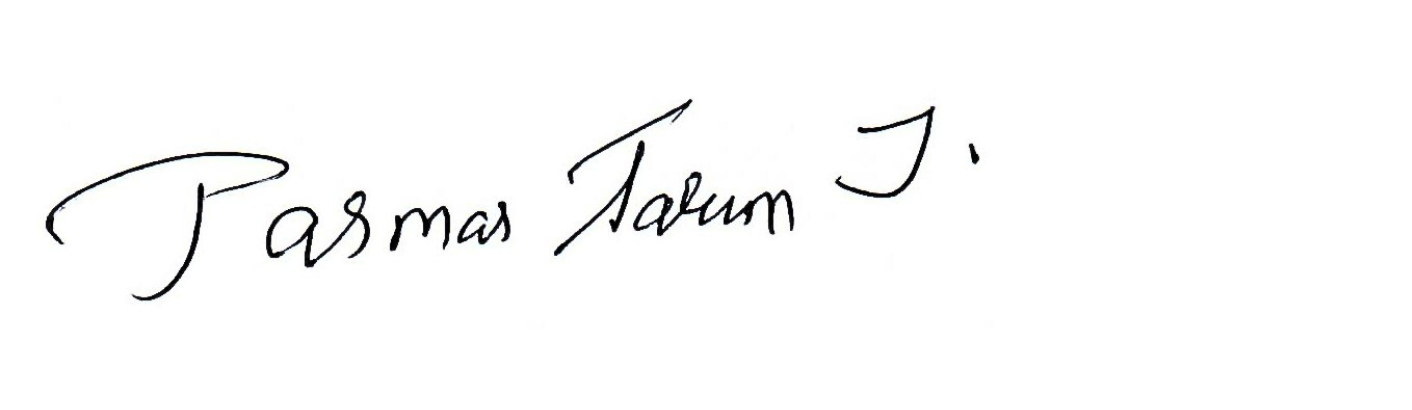
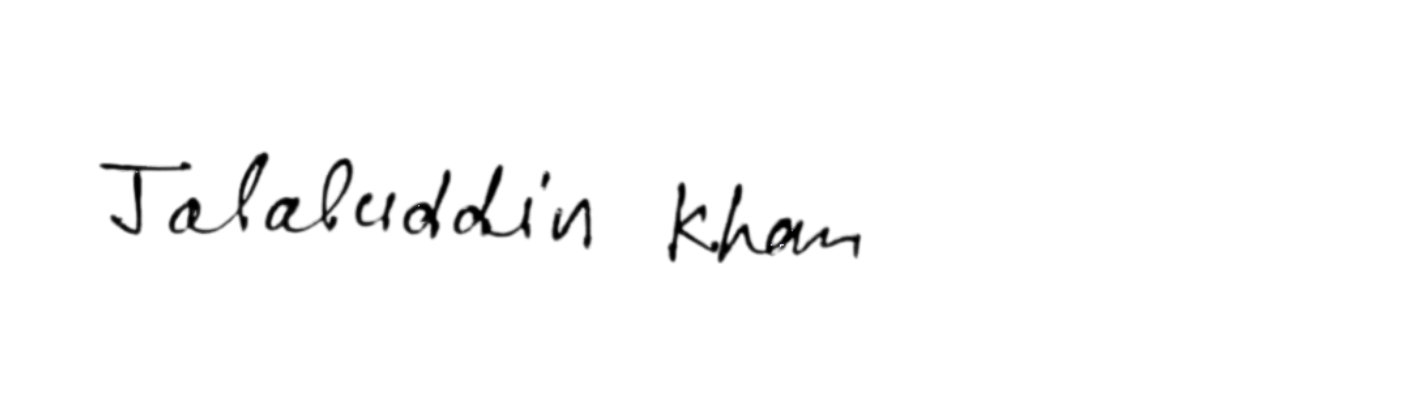
optometrist sign update

diff --git a/authsysproject/users/templates/users/optometrylist.html b/authsysproject/users/templates/users/optometrylist.html
@@ -291,7 +291,7 @@
                     <img src="static/image/moin.png" alt="Description of image">
                     <br>
                     <br>
-                    Tarun Parmar
+                    Jalaluddin Khan
                     <br>
                     Optometrist
                 </div>
